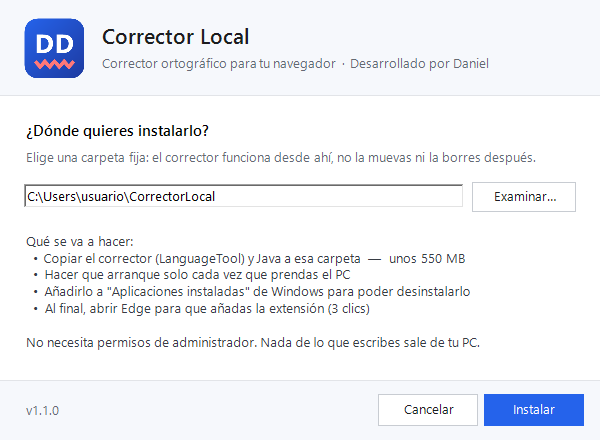
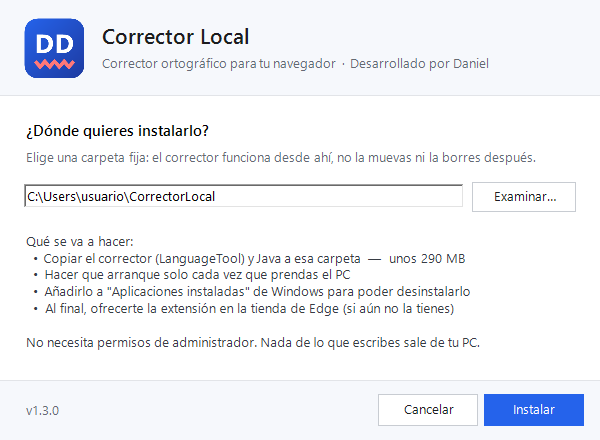
Instalación más sencilla: descarga directa y extensión desde la tienda
- Bienvenida y ventana de la extensión: botón que descarga el instalador directamente
- Instalador con nombre fijo en cada Release (enlace .../releases/latest/download/...)
- Pantalla final del instalador: "Obtener la extensión" abre la tienda de Edge;
  la carga en modo desarrollador pasa a "Instalación manual"
- README con los dos caminos de instalación

Changed region(s): [[0.06, 0.6795, 0.75, 0.7386], [0.69, 0.5614, 0.72, 0.5909], [0.06, 0.9159, 0.09, 0.9455]]

diff --git a/extension/welcome.html b/extension/welcome.html
@@ -36,6 +36,7 @@
            font-weight: 600; padding: 10px 18px; border-radius: 8px; }
     .btn:hover { filter: brightness(1.08); }
     .link { color: var(--accent); }
+    .small { font-size: 13px; margin-top: 10px !important; }
     .status { display: flex; align-items: center; gap: 10px; font-weight: 600; }
     .dot { width: 12px; height: 12px; border-radius: 50%; background: var(--warn); flex: none; }
     .status.ok .dot { background: var(--ok); }
@@ -66,13 +67,16 @@
     <ol>
       <li>
         <h2>Descarga el corrector para Windows</h2>
-        <p>Es gratis y de código abierto. Incluye todo lo necesario (descarga de unos 150&nbsp;MB).</p>
-        <a class="btn" id="download" target="_blank" rel="noopener">Descargar desde GitHub</a>
+        <p>Es gratis y de código abierto. Incluye todo lo necesario (unos 150&nbsp;MB).</p>
+        <a class="btn" id="installer">Descargar el instalador</a>
+        <p class="small">¿Prefieres verlo antes? <a class="link" id="download" target="_blank" rel="noopener">Página de descargas en GitHub</a></p>
       </li>
       <li>
-        <h2>Ejecuta el instalador</h2>
-        <p>Acepta la licencia, elige la carpeta y pulsa <b>Instalar</b>. No necesita permisos de administrador.
-          Si Windows muestra <i>"Windows protegió su PC"</i>, pulsa <b>Más información → Ejecutar de todas formas</b>.</p>
+        <h2>Ábrelo e instálalo</h2>
+        <p>Cuando termine la descarga, pulsa <b>Abrir archivo</b> en la barra de descargas del navegador
+          (o búscalo en tu carpeta <b>Descargas</b>). El instalador te preguntará <b>en qué carpeta instalarlo</b>;
+          acepta la licencia y pulsa <b>Instalar</b>. No necesita permisos de administrador.</p>
+        <p>Si Windows muestra <i>"Windows protegió su PC"</i>, pulsa <b>Más información → Ejecutar de todas formas</b>.</p>
       </li>
       <li>
         <h2>Comprueba que funciona</h2>

diff --git a/extension/popup.html b/extension/popup.html
@@ -65,7 +65,7 @@
   <section>
     <div class="status"><span class="dot" id="dot"></span><span id="status">Buscando el corrector…</span></div>
     <div class="hint" id="serverHelp" hidden>
-      ¿Aún no lo tienes? <a id="downloadLink" target="_blank" rel="noopener">Descárgalo gratis desde GitHub</a>
+      ¿Aún no lo tienes? <a id="downloadLink" target="_blank" rel="noopener">Descargar el instalador</a> (gratis, 150&nbsp;MB)
       o mira la <a id="guideLink" href="#">guía de instalación</a>.<br>
       Si ya está instalado, espera unos segundos o reinicia el PC.
     </div>

diff --git a/extension/links.js b/extension/links.js
@@ -3,6 +3,8 @@ const REPO = 'juanda-lab/corrector-ortogr-fico-local';
 const LINKS = {
   repo: `https://github.com/${REPO}`,
   download: `https://github.com/${REPO}/releases/latest`,
+  // Descarga directa del instalador de la última versión (nombre fijo en cada Release)
+  installer: `https://github.com/${REPO}/releases/latest/download/Instalador-Corrector-Local.exe`,
   privacy: `https://github.com/${REPO}/blob/main/PRIVACY.md`,
   releasesApi: `https://api.github.com/repos/${REPO}/releases/latest`,
 };

diff --git a/extension/popup.js b/extension/popup.js
@@ -40,7 +40,7 @@ async function checkServer() {
   $('serverHelp').hidden = false;
 }
 
-$('downloadLink').href = LINKS.download;
+$('downloadLink').href = LINKS.installer;
 $('guideLink').addEventListener('click', (e) => {
   e.preventDefault();
   chrome.tabs.create({ url: chrome.runtime.getURL('welcome.html') });

diff --git a/extension/welcome.js b/extension/welcome.js
@@ -1,3 +1,4 @@
+document.getElementById('installer').href = LINKS.installer;
 document.getElementById('download').href = LINKS.download;
 document.getElementById('privacy').href = LINKS.privacy;
 document.getElementById('repo').href = LINKS.repo;

diff --git a/instalador/Instalador.cs b/instalador/Instalador.cs
@@ -45,13 +45,14 @@ class InstallerForm : Form
     const string StartupFile = "LanguageTool local.vbs";
     // 127.0.0.1 y no "localhost": el servidor solo escucha en IPv4 y Windows tarda ~2 s en descartar ::1
     const string ServerUrl = "http://127.0.0.1:8081/v2/languages";
+    const string StoreUrl = "https://microsoftedge.microsoft.com/addons/detail/eajjoflldpddkbfbkbjdnmgeabilkdea";
 
     static readonly Color Accent = Color.FromArgb(37, 99, 235);
     static readonly Color Muted = Color.FromArgb(100, 106, 115);
     static readonly Color Line = Color.FromArgb(226, 228, 232);
 
     Panel pageLicense, pageChoose, pageProgress, pageDone;
-    TextBox pathBox, extPathBox;
+    TextBox pathBox;
     CheckBox acceptBox;
     Button nextBtn, installBtn, cancelBtn, finishBtn;
     ProgressBar bar;
@@ -200,7 +201,7 @@ class InstallerForm : Form
                    "  •  Copiar el corrector (LanguageTool) y Java a esa carpeta  —  unos 290 MB\r\n" +
                    "  •  Hacer que arranque solo cada vez que prendas el PC\r\n" +
                    "  •  Añadirlo a \"Aplicaciones instaladas\" de Windows para poder desinstalarlo\r\n" +
-                   "  •  Al final, abrir Edge para que añadas la extensión (3 clics)\r\n\r\n" +
+                   "  •  Al final, ofrecerte la extensión en la tienda de Edge (si aún no la tienes)\r\n\r\n" +
                    "No necesita permisos de administrador. Nada de lo que escribes sale de tu PC.",
             Bounds = new Rectangle(24, 136, 552, 140), ForeColor = Color.FromArgb(55, 60, 68)
         });
@@ -227,7 +228,7 @@ class InstallerForm : Form
         var p = new Panel();
         p.Controls.Add(new Label
         {
-            Text = "¡Listo! Solo falta añadir la extensión a Edge", Bounds = new Rectangle(24, 16, 540, 24),
+            Text = "¡Listo! El corrector está instalado", Bounds = new Rectangle(24, 16, 540, 24),
             Font = new Font("Segoe UI Semibold", 11F)
         });
         serverLabel = new Label { Bounds = new Rectangle(24, 42, 552, 20), ForeColor = Muted };
@@ -235,31 +236,30 @@ class InstallerForm : Form
 
         p.Controls.Add(new Label
         {
-            Text = "1.  Pulsa \"Abrir extensiones de Edge\".\r\n" +
-                   "2.  Activa \"Modo de desarrollador\" (panel izquierdo de Edge).\r\n" +
-                   "3.  Pulsa \"Cargar desempaquetada\", pega la ruta (Ctrl+V) y acepta.\r\n" +
-                   "      (La ruta ya está copiada; si hace falta, usa \"Copiar ruta\".)\r\n" +
-                   "4.  Recarga WhatsApp Web y escribe: los errores aparecerán subrayados.",
-            Bounds = new Rectangle(24, 72, 552, 104), ForeColor = Color.FromArgb(55, 60, 68)
+            Text = "Último paso: añade la extensión Corrector Local a tu navegador.\r\n\r\n" +
+                   "•  Si ya la añadiste desde la tienda, no tienes que hacer nada más:\r\n" +
+                   "    recarga las páginas abiertas y empieza a escribir.\r\n" +
+                   "•  Si no, pulsa \"Obtener la extensión\" y luego \"Obtener\" en la tienda de Edge.",
+            Bounds = new Rectangle(24, 76, 552, 96), ForeColor = Color.FromArgb(55, 60, 68)
         });
 
-        extPathBox = new TextBox { Bounds = new Rectangle(24, 184, 440, 28), ReadOnly = true, BackColor = Color.FromArgb(246, 248, 252) };
-        p.Controls.Add(extPathBox);
-
-        var copy = MakeButton("Copiar ruta", false);
-        copy.Bounds = new Rectangle(472, 182, 104, 30);
-        copy.Click += (s, e) => CopyExtensionPath();
-        p.Controls.Add(copy);
-
-        var openEdge = MakeButton("Abrir extensiones de Edge", true);
-        openEdge.Bounds = new Rectangle(24, 228, 220, 34);
-        openEdge.Click += (s, e) => OpenEdgeExtensions();
-        p.Controls.Add(openEdge);
+        var store = MakeButton("Obtener la extensión", true);
+        store.Bounds = new Rectangle(24, 184, 200, 36);
+        store.Click += (s, e) => OpenStore();
+        p.Controls.Add(store);
 
         var openFolder = MakeButton("Abrir carpeta", false);
-        openFolder.Bounds = new Rectangle(254, 228, 130, 34);
+        openFolder.Bounds = new Rectangle(234, 184, 130, 36);
         openFolder.Click += (s, e) => Process.Start("explorer.exe", "\"" + installDir + "\"");
         p.Controls.Add(openFolder);
+
+        var manual = new LinkLabel
+        {
+            Text = "Instalación manual (Google Chrome o modo desarrollador)", Bounds = new Rectangle(24, 236, 400, 22),
+            LinkColor = Accent, ActiveLinkColor = Accent
+        };
+        manual.LinkClicked += (s, e) => ShowManualSteps();
+        p.Controls.Add(manual);
         return p;
     }
 
@@ -481,12 +481,10 @@ class InstallerForm : Form
     void Finish(bool running)
     {
         bar.Value = 100;
-        extPathBox.Text = Path.Combine(installDir, "extension");
         serverLabel.Text = running
             ? "✔  El corrector está funcionando y arrancará solo con Windows."
             : "⚠  El corrector aún no responde. Reinicia el PC; si sigue igual, ejecuta iniciar-servidor.bat.";
         serverLabel.ForeColor = running ? Color.FromArgb(22, 128, 61) : Color.FromArgb(180, 83, 9);
-        CopyExtensionPath();
         ShowPage(pageDone);
         installBtn.Visible = false;
         cancelBtn.Visible = false;
@@ -494,19 +492,28 @@ class InstallerForm : Form
         AcceptButton = finishBtn;
     }
 
-    void CopyExtensionPath()
+    // Abre la ficha de la extensión en la tienda de Edge (en Edge si está; si no, en el navegador predeterminado)
+    void OpenStore()
     {
-        try { Clipboard.SetText(extPathBox.Text); } catch { }
-    }
-
-    void OpenEdgeExtensions()
-    {
-        CopyExtensionPath();
-        try { Process.Start("msedge.exe", "edge://extensions"); }
+        try { Process.Start("msedge.exe", StoreUrl); }
         catch
         {
-            MessageBox.Show(this, "No se encontró Edge. Ábrelo y escribe en la barra de direcciones:\r\nedge://extensions",
-                AppName, MessageBoxButtons.OK, MessageBoxIcon.Information);
+            try { Process.Start(StoreUrl); } catch { }
         }
+    }
+
+    // Instrucciones para cargar la extensión incluida (Chrome, o sin usar la tienda)
+    void ShowManualSteps()
+    {
+        string ext = Path.Combine(installDir, "extension");
+        try { Clipboard.SetText(ext); } catch { }
+        MessageBox.Show(this,
+            "La extensión también está en esta carpeta (ruta copiada al portapapeles):\r\n" + ext + "\r\n\r\n" +
+            "1.  Abre  edge://extensions  (Edge) o  chrome://extensions  (Chrome).\r\n" +
+            "2.  Activa \"Modo de desarrollador\".\r\n" +
+            "3.  Pulsa \"Cargar desempaquetada\" / \"Cargar descomprimida\", pega la ruta (Ctrl+V) y acepta.\r\n" +
+            "4.  Recarga las páginas abiertas y escribe.\r\n\r\n" +
+            "No borres ni muevas esa carpeta: el navegador la usa desde ahí.",
+            "Instalación manual de la extensión", MessageBoxButtons.OK, MessageBoxIcon.Information);
     }
 }

diff --git a/README.md b/README.md
@@ -46,34 +46,36 @@ Usa por debajo **[LanguageTool](https://github.com/languagetool-org/languagetool
 
 ## Instalación
 
-### 1. Descarga e instala
+Hay dos caminos; cualquiera de los dos te lleva al otro paso.
 
-Descarga **`Instalador Corrector Local.exe`** desde la sección [**Releases**](../../releases/latest) y ejecútalo.
+### Opción A — Empieza por la tienda de Edge (recomendado)
+
+1. Añade **[Corrector Local desde Microsoft Edge Add-ons](https://microsoftedge.microsoft.com/addons/detail/eajjoflldpddkbfbkbjdnmgeabilkdea)**.
+2. Se abre una página de bienvenida: pulsa **Descargar el instalador**.
+3. Abre el archivo descargado. El instalador te pregunta **en qué carpeta instalarlo**; acepta la licencia y pulsa **Instalar**.
+4. La página de bienvenida se pone en verde sola cuando detecta el corrector. Listo.
+
+### Opción B — Empieza por el instalador
+
+1. Descarga **[Instalador-Corrector-Local.exe](../../releases/latest/download/Instalador-Corrector-Local.exe)** (desde [Releases](../../releases/latest)) y ejecútalo.
 
 <p align="center">
   <img src="docs/instalador-1.png" width="480" alt="Instalador: elegir carpeta">
 </p>
 
-- Acepta la licencia y elige la carpeta donde se instalará (por defecto `C:\Users\<usuario>\CorrectorLocal`).
-- Se crean accesos en **Inicio → Corrector Local** (carpeta, léeme, licencias y desinstalar).
-- **No necesita permisos de administrador.** Descarga de unos 150 MB; instalado ocupa unos 290 MB (incluye Java y LanguageTool).
-- Si Windows muestra *"Windows protegió su PC"*: **Más información → Ejecutar de todas formas** (el instalador no tiene firma digital de pago).
-
-### 2. Añade la extensión al navegador
-
-Los navegadores no permiten que un programa instale extensiones por su cuenta, así que este paso es manual (solo una vez):
+2. Acepta la licencia, elige la carpeta (por defecto `C:\Users\<usuario>\CorrectorLocal`) y pulsa **Instalar**.
+3. Al terminar, pulsa **Obtener la extensión** para añadirla desde la tienda de Edge.
 
 <p align="center">
   <img src="docs/instalador-2.png" width="480" alt="Instalador: pasos finales">
 </p>
 
-| | Microsoft Edge | Google Chrome |
-|---|---|---|
-| 1 | Abre `edge://extensions` (o pulsa **Abrir extensiones de Edge** en el instalador) | Abre `chrome://extensions` |
-| 2 | Activa **Modo de desarrollador** (panel izquierdo) | Activa **Modo de desarrollador** (arriba a la derecha) |
-| 3 | **Cargar desempaquetada** → pega la ruta (ya está copiada) | **Cargar descomprimida** → elige la carpeta `extension` |
+**Detalles del instalador:**
+- **No necesita permisos de administrador.** Descarga de unos 150 MB; instalado ocupa unos 290 MB (incluye Java y LanguageTool).
+- Crea accesos en **Inicio → Corrector Local** (carpeta, léeme, licencias y desinstalar).
+- Si Windows muestra *"Windows protegió su PC"*: **Más información → Ejecutar de todas formas** (el instalador aún no tiene firma digital).
 
-Recarga la página donde escribes y listo.
+**Google Chrome o sin tienda:** en la pantalla final del instalador, **Instalación manual** explica cómo cargar la extensión incluida (`chrome://extensions` → **Modo de desarrollador** → **Cargar descomprimida** → carpeta `extension`).
 
 > 💡 Si tenías la extensión oficial de LanguageTool, quítala: por seguridad el servidor solo atiende a la extensión Corrector Local.
 > En Chrome, si aparece el aviso *"Desactivar extensiones en modo de desarrollador"*, ciérralo con la **X**.

diff --git a/CHANGELOG.md b/CHANGELOG.md
@@ -7,6 +7,7 @@ Formato basado en [Keep a Changelog](https://keepachangelog.com/es-ES/1.1.0/). V
 ### Añadido
 - Atajo **Alt+Enter**: corrige con la primera sugerencia el error junto al cursor, sin usar el ratón.
 - **Revisar en este sitio**: interruptor en la ventana de la extensión para desactivarla solo en una página concreta.
+- Instalación más sencilla: la página de bienvenida y la ventana de la extensión descargan el instalador directamente, y la pantalla final del instalador abre la extensión en la tienda de Edge (la instalación manual queda como opción avanzada).
 - Compilación automática y publicación de versiones con GitHub Actions.
 
 ### Cambiado
